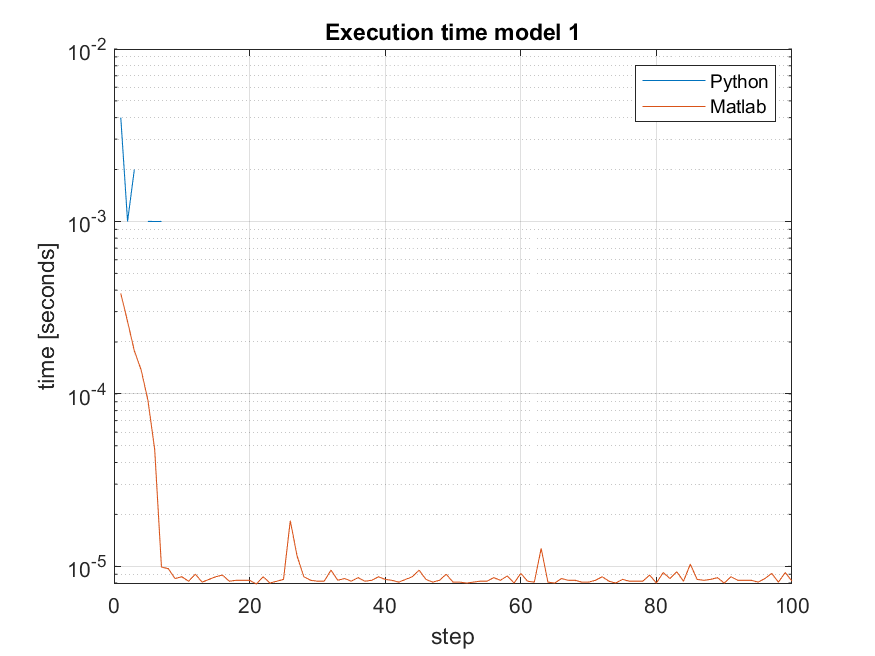
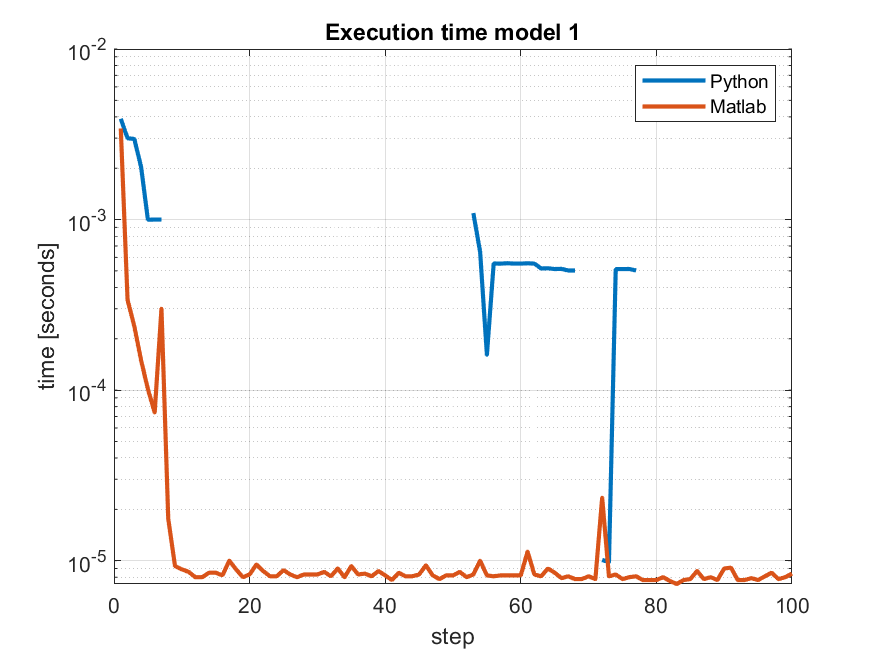
friday

diff --git a/Matlab_kode/plotting.m b/Matlab_kode/plotting.m
@@ -23,9 +23,9 @@ python_iterations2 = W2(2:101);
 if (Model == 1)
     
     f = figure("Name", "myfig");
-    plot(python_times1);
+    plot(python_times1, 'LineWidth', 2);
     hold on;
-    plot(tosave1);
+    plot(tosave1, 'LineWidth', 2);
     hold off;
     legend('Python','Matlab')
     title('Execution time model 1');
@@ -86,25 +86,26 @@ grid
 
 fig = figure;
 subplot(2,1,1)
-plot(python_iterations1);
+plot(python_iterations1, 'LineWidth', 2, 'LineStyle','--');
 hold on;
-plot(while_iterations1);
+plot(while_iterations1, 'LineWidth', 1);
 hold off;
 legend('Python','Matlab')
 title('While iterations each step model 1');
 ylabel('iterations')
 xlabel('step')
-%ylim([0, 0.004])
+
+ylim([0,7])
 grid
 
 subplot(2,1,2)
-plot(python_iterations2);
+plot(python_iterations2, 'LineWidth', 2, 'LineStyle','--');
 hold on;
-plot(while_iterations2);
+plot(while_iterations2, 'LineWidth', 1);
 hold off;
 legend('Python','Matlab')
 title('While iterations each step model 2');
 ylabel('iterations')
 xlabel('step')
-%ylim([0, 0.004])
+ylim([0,5])
 grid

diff --git a/Matlab_kode/MPC_setup.m b/Matlab_kode/MPC_setup.m
@@ -1,4 +1,4 @@
-Model = 2;
+Model = 3;
 
 if (Model == 1)
     % Discrete double integrator
@@ -90,7 +90,7 @@ if (Model == 3)
 end
 
 %K is the gain matrix 
-[K,S,E]=lqr(sys,Q,R)
+[K,S,E]=lqr(sys,Q,R);
 
 %Hva skjer her?
 %kron returns the Kronecker tensor product
@@ -106,7 +106,7 @@ Rh = kron(eye(n),R);
 Hy = kron(eye(n-1),C);
 hy = kron(ones(n-1,1),ymax); %making a ymax vector (repeating ymax n-1 times) 
 %ymin constraint
-F = kron(eye(n-1),-C)
+F = kron(eye(n-1),-C);
 Hy = [Hy;kron(eye(n-1),-C)];
 hy = [hy;kron(ones(n-1,1),-ymin)]; %adding the ymin constraints to hy (repeating ymin n-1 times) 
 %Terminal constraints

diff --git a/PythonCode/MPC_run.py b/PythonCode/MPC_run.py
@@ -43,6 +43,7 @@ Qmat0i = np.identity(nc) #denne er overflødig siden vi setter dne i for loopen
 while_iterations1 = [] #for counting the while iterations in each step
 while_iterations2 = []
 
+tot = time.time_ns() 
 for i in range(tend):
     start = time.time_ns()    
     
@@ -136,6 +137,12 @@ for i in range(tend):
 
     if (MODEL ==2):
         tosave2[0, i] = tk #this is in nano seconds
+
+end = time.time_ns()
+total_time = end-tot
+
+print("Total runtime s: ")
+print(total_time/10**(9))
         
 
 print("done")

diff --git a/Matlab_kode/MPClambda2sbrybtNEWEST_run.m b/Matlab_kode/MPClambda2sbrybtNEWEST_run.m
@@ -56,7 +56,7 @@ Qmat0i = speye(nc);
 tt = tic;
 %for ik = 1:1
 
-
+tot = tic;
 for ik = 1:tend
     %ik;
     %Implicit MPC problem.  Hoping to do this efficiently...
@@ -173,6 +173,7 @@ for ik = 1:tend
    % tc = toc(tc);
    % tcsave(1,ik) = tc;
 end
+total_time = toc(tot);
 
 toc(tt)
 

diff --git a/PythonCode/MPC_setup.py b/PythonCode/MPC_setup.py
@@ -9,7 +9,7 @@ def deb(A):
     print("dimention:")
     print(A.shape)
 
-MODEL = 1
+MODEL = 2
 
 
 
